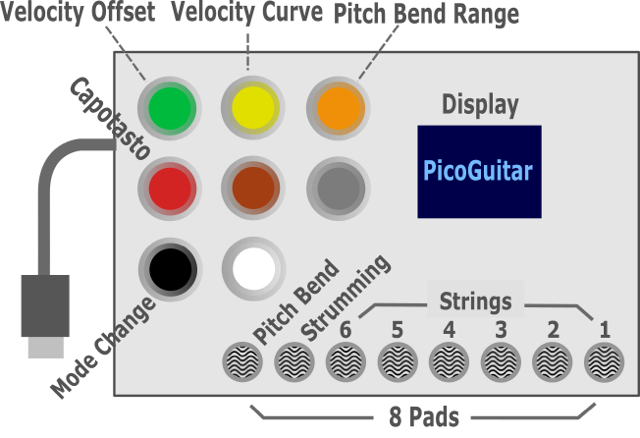
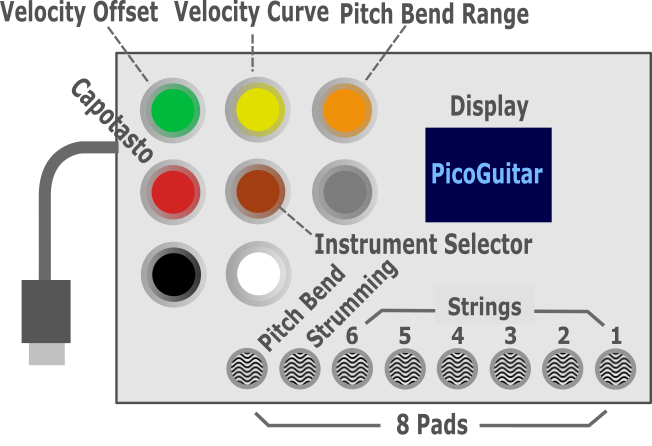
Document updata for ver 1.0.3

Changed region(s): [[0.4688, 0.5046, 0.8125, 0.5936], [0.0625, 0.6826, 0.25, 0.9201], [0.4375, 0.4749, 0.4688, 0.5046]]

diff --git a/Docs/UsersManual.md b/Docs/UsersManual.md
@@ -17,6 +17,7 @@
 　Pico GuitarのほかにUSBホストデバイスになるUSB MIDI音源が必要です。電源もUSBホストから供給される必要があります。
 
 ## 4. 接続〜起動
+![splash.jpg](https://github.com/ohira-s/PICO_USB_MIDI_INSTRUMENT/blob/master/Docs/splash.jpg)
 1) Pico Guitarを用意します。<br/>
 2) USBホストとなるUSB MIDI音源を用意します。<br/>
 3) Pico GuitarとMIDI音源を接続するUSBケーブルを用意します。Pico Guitar側はMicro USB-Bオスです。<br/>
@@ -42,12 +43,13 @@
 　コード演奏時の画面は以下のようになっています。<br/>
 ![chord_play.jpg](https://github.com/ohira-s/PICO_USB_MIDI_INSTRUMENT/blob/master/Docs/chord_play.jpg)
 
-・A aug L +5<br/>
-　選択されているベース音(A)、コード(aug)、ロー／ハイコード(L)、カポタスト位置(+5)が表示されています。<br/><br/>
-・Aco GT (nylo<br/>
+・A M L +0<br/>
+　選択されているベース音(A)、コード(M=major)、ロー／ハイコード(L)、カポタスト位置(+0=カポタストなし)が表示されています。<br/>
+ 　オンコード（分数コード）A/Cで、ハイコード、カポタスト位置2フレット目の場合は「A M H/C +2」のように表示されます。 <br/><br/>
+・Banjo<br/>
 　演奏するGM音源の楽器名が表示されています。<br/><br/>
-・CM L<br/>
-　画面左下の3行は6個のChord Selectorsスイッチに割り当てられているコードが表示されています。CM LはCメジャーのローコード、Aaug L on BはAaugのローコードでオンコードでベース音をBにしたコードを表しています。<br/>
+・CM L, AM L/C, ...<br/>
+　画面左下の3行は6個のChord Selectorsスイッチに割り当てられているコードが表示されています。CM LはCメジャーのローコード、AM L/CはAメジャーのローコードでオンコードでベース音をCにしたコードを表しています。<br/>
 　Chord Pageでコード設定のページを切り替えると、この表示も変化します。<br/><br/>
 ・画面右上のノート表示<br/>
 　縦書きで音程が表示されています。右の6列がギターの6弦に相当し、右から高音の1弦になっています。画面のコードは高音側の4弦をF5, C#5, A4, F4で発音することを表しています。<br/>
@@ -74,16 +76,15 @@
 ### 6-4. Low/High Selector
 　ローコード、ハイコードの切り替えをします。スイッチを押すたびにLow, Highが切り替わります。<br/>
 
-### 6-5. Octave Selector
+### 6-5. On-chord Selector
+　ベース音の代わりとする音程を指定します。押すたびにC,C##,...と変化し、Bの次は空欄となってオンコードとしないことになります。<br/>
+
+### 6-6. Octave Selector
 　1〜9の範囲でオクターブを切り替えられます。初期値は4です。9で押すと1に戻ります。<br/>
 
-### 6-6. Chord Set File Selector
+### 6-7. Chord Set File Selector
 　曲調などに合ったコード進行を構成するコード群をあらかじめ定義した設定ファイルがあると、そのファイルを指定してChord Selectorsスイッチに一括してコードを割り当てることができます（設定ファイルの個数制限はありません。PICOのメモリが許す範囲で保存できます）<br/>
 　スイッチを押すたびに設定ファイルが切り替わり、切り替わった時点でChord Selectorsのスイッチへのコード割り当ても変更されます。<br/>
-
-### 6-7. Instrument Selector
-　MIDI GM音源内の楽器を変更できます。スイッチを押すたびに切り替わります。各種ギターとシタールなどの弦楽器系から選択できます。<br/>
-　選択した時点でMIDIのプログラムチェンジが送信され、音源のプログラムが切り替わります（その後、音源側でプログラムを変更した場合は、その音で演奏されます）
  
 ### 6-8. 8 Pads
  　設定中のコードは8個のパッドを指で押して演奏できます。<br/>
@@ -94,14 +95,11 @@
 ・BUTTN:<br/>
 　Chord Switch Selectorで選択されたChord Selectorsスイッチの番号が表示されています。このスイッチにコードを設定することになります。<br/><br/>
 ・CHORD:<br/>
-　Root Selector, Chord Selector, Low/High Selectorで指定されたコード名が表示されています。<br/>
-　残念ながらここではオンコード（分数コード）を設定することはできません。オンコードはコード設定ファイルを使って設定します。<br/><br/>
+　Root Selector、Chord Selector、Low/High Selector、On-chord Selectorで指定されたコード名が表示されています。<br/><br/>
 ・OCTAV:<br/>
 　設定されているオクターブが表示されます。通常は4です。<br/><br/>
 ・FILE:<br/>
 　選択されたコード設定ファイルのタイトルが表示されています。<br/><br/>
-・INST:<br/>
-　選択されたGM音源楽器名が表示されています。<br/>
 
 ### 6-10. Mode Change
 　このスイッチを押すとコンフィグレーションモードに移行します。<br/>
@@ -124,11 +122,14 @@
 ### 7-4. Capotasto
 　カポタストを付けるフレットの位置を設定できます。-12〜+12の範囲で変更できます。0でカポタストなしです。実際のギターでマイナスのカポタストは付けられませんが、Pico Guitarでは可能としました。<br/>
 　コード設定のOctave Selectorではオクターブ単位での音程を設定できましたが、カポタストではさらに半音単位で音程を変更できます。<br/>
- 
-### 7-5. 8 Pads
+
+### 7-5. Instrument Selector
+　MIDI GM音源内の楽器を変更できます。スイッチを押すたびに切り替わります。各種ギターとシタールなどの弦楽器系から選択できます。<br/>
+　選択した時点でMIDIのプログラムチェンジが送信され、音源のプログラムが切り替わります（その後、音源側でプログラムを変更した場合は、その音で演奏されます）
+### 7-6. 8 Pads
  　設定中のコードは8個のパッドを指で押して演奏できます。<br/>
 
-### 7-6. Display
+### 7-7. Display
 　コンフィグレーション時の画面は以下のようになっています。<br/>
 ![configs.jpg](https://github.com/ohira-s/PICO_USB_MIDI_INSTRUMENT/blob/master/Docs/configs.jpg)
 ・OFFSET VELOCITY:<br/>
@@ -139,8 +140,10 @@
 　指定されたピッチベンドレンジの値が表示されています。<br/><br/>
 ・CAPOTASTO FRETS:<br/>
 　指定されたカポタストのフレット位置が表示されています。<br/>
+・INST:<br/>
+　選択されたGM音源楽器名が表示されています。<br/>
 
-### 7-7. Mode Change
+### 7-8. Mode Change
 　このスイッチを押すとコード譜演奏モードに移行します。<br/>
 
 ## 8. コード譜演奏モード
